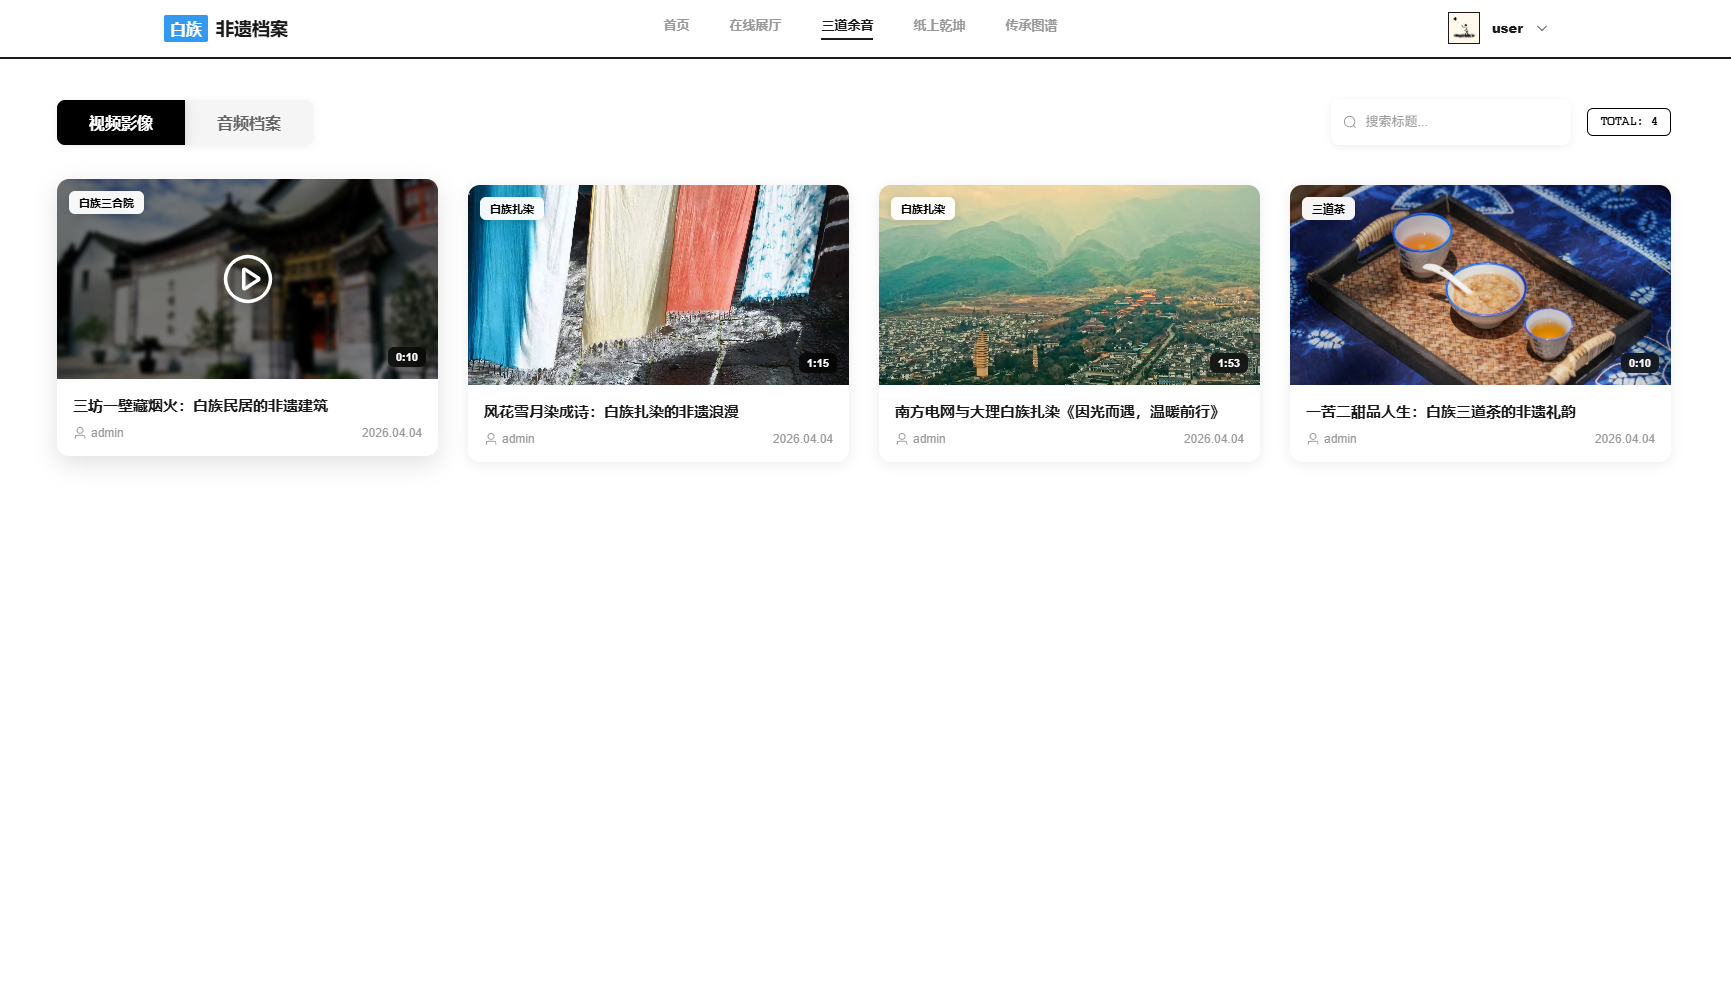
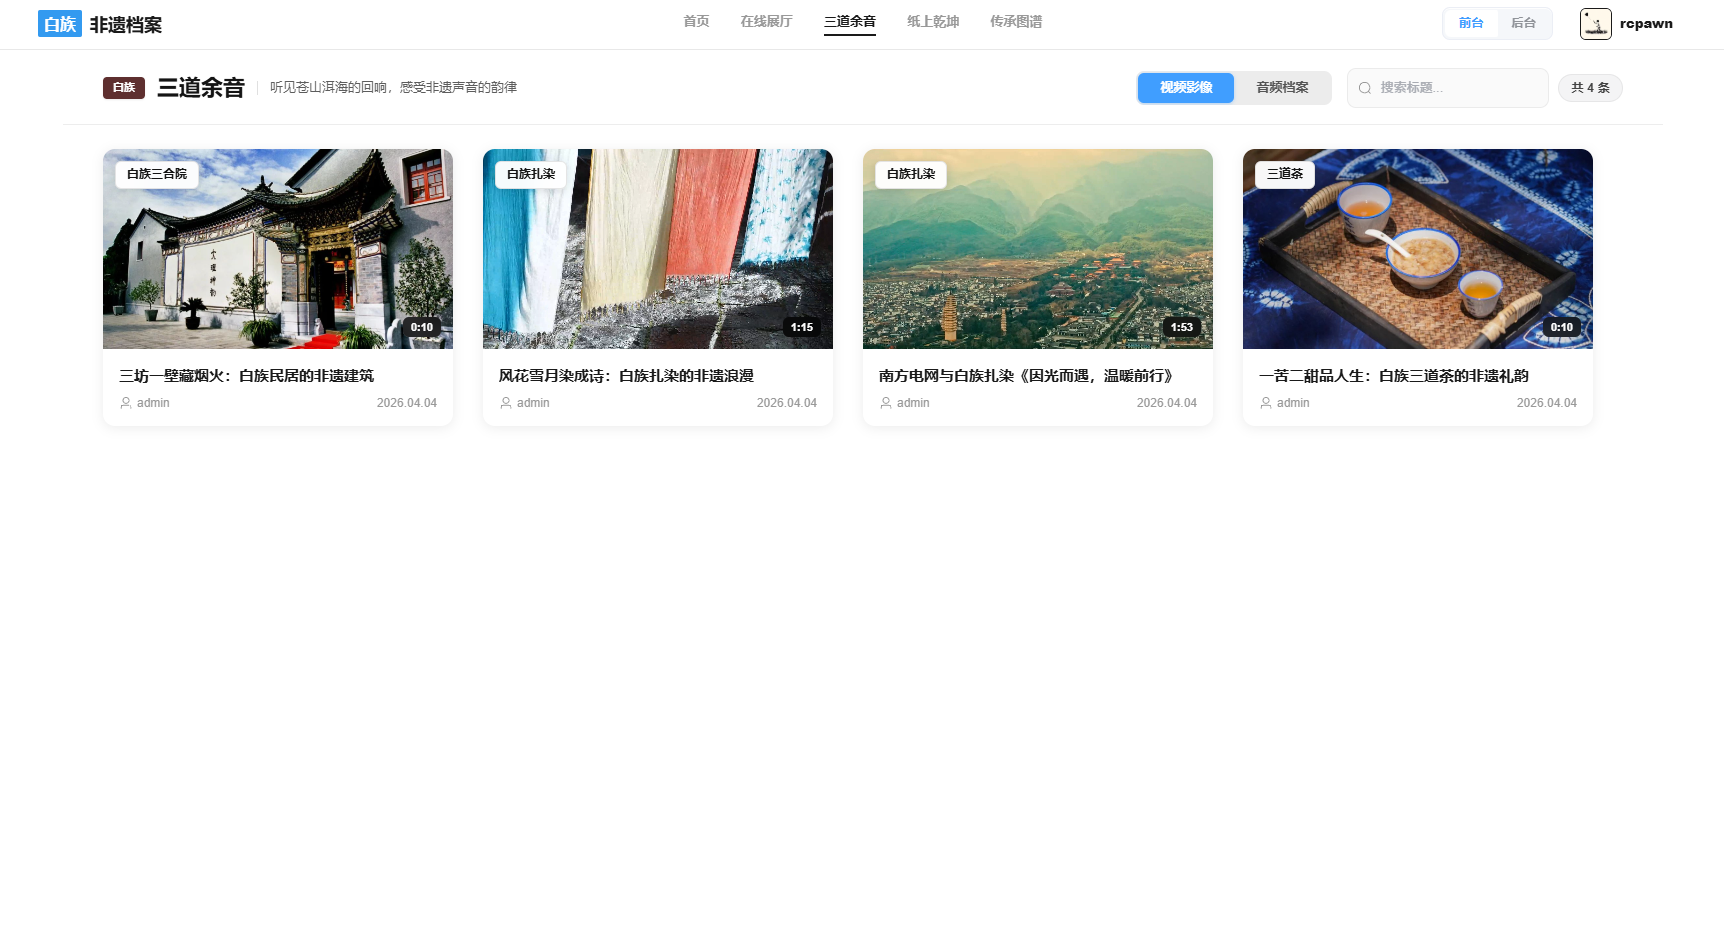
非遗展品接口区分前台与后台列表权限并限制未上架交互；门户布局与展品管理前端调整；更新 README 配图

diff --git a/ruoyi-ui/src/layout/PortalLayout.vue b/ruoyi-ui/src/layout/PortalLayout.vue
@@ -124,17 +124,20 @@ $ink-black: #1A1A1A;
     max-width: min(1680px, 100%);
     margin: 0 auto;
     height: 100%;
-    display: flex;
+    /* 左右各 1fr、中间 auto：主导航相对整条顶栏几何居中；避免右侧「前台/后台」+ 用户区变宽时导航被挤向左侧 */
+    display: grid;
+    grid-template-columns: minmax(0, 1fr) auto minmax(0, 1fr);
     align-items: center;
-    justify-content: space-between;
     gap: 12px;
   }
 }
 
-/* 中间导航独占可伸缩区并居中，避免右侧切换/登录区挤压链接文字 */
+/* 中间导航在 grid 第二列，相对视口居中，不受左右栏宽度差影响 */
 .header-center {
-  flex: 1 1 auto;
+  grid-column: 2;
+  justify-self: center;
   min-width: 0;
+  max-width: 100%;
   display: flex;
   align-items: center;
   justify-content: center;
@@ -142,6 +145,8 @@ $ink-black: #1A1A1A;
 }
 
 .logo-box {
+  grid-column: 1;
+  justify-self: start;
   flex-shrink: 0;
   cursor: pointer;
   display: flex; align-items: center; gap: 8px;
@@ -187,6 +192,19 @@ $ink-black: #1A1A1A;
   }
 }
 
+.user-actions {
+  grid-column: 3;
+  justify-self: end;
+  display: flex;
+  align-items: center;
+  gap: 10px;
+  flex-shrink: 0;
+}
+
+.user-actions__switcher {
+  margin-right: 2px;
+}
+
 @media screen and (max-width: 1180px) {
   .portal-header {
     height: auto;
@@ -195,19 +213,24 @@ $ink-black: #1A1A1A;
     padding-bottom: 8px;
   }
   .header-inner {
-    flex-wrap: wrap;
-    justify-content: flex-start;
+    grid-template-columns: 1fr auto;
+    grid-template-rows: auto auto;
+    row-gap: 8px;
   }
   .logo-box {
-    order: 1;
+    grid-column: 1;
+    grid-row: 1;
   }
   .user-actions {
-    order: 2;
-    margin-left: auto;
+    grid-column: 2;
+    grid-row: 1;
+    justify-self: end;
   }
   .header-center {
-    order: 3;
-    flex-basis: 100%;
+    grid-column: 1 / -1;
+    grid-row: 2;
+    width: 100%;
+    justify-self: stretch;
     justify-content: center;
     padding-top: 4px;
   }
@@ -233,18 +256,6 @@ $ink-black: #1A1A1A;
     flex-shrink: 0;
   }
   .user-name { font-size: 13px; font-weight: 900; color: $ink-black; }
-}
-
-.user-actions {
-  display: flex;
-  align-items: center;
-  gap: 10px;
-  flex-shrink: 0;
-  margin-left: auto;
-}
-
-.user-actions__switcher {
-  margin-right: 2px;
 }
 
 /* 主内容区：占满顶栏以下剩余高度（flex 子项），具体 min-height 由各子页自理 */

diff --git a/ruoyi-ui/src/views/heritage/inheritor/map.vue b/ruoyi-ui/src/views/heritage/inheritor/map.vue
@@ -1,5 +1,5 @@
 <template>
-  <div class="genealogy-container" v-loading="loading" element-loading-background="rgba(242, 240, 235, 1)">
+  <div class="genealogy-container" v-loading="loading" element-loading-background="#ffffff">
     <div class="paper-bg"></div>
     <div class="vignette-overlay"></div>
 
@@ -596,7 +596,7 @@ $accent: #FFD700;
     padding: 0 clamp(16px, 3vw, 40px);
     font-weight: 900;
     font-size: 12px;
-    background: #fafafa;
+    background: $bg-color;
     border-bottom: 1px solid #eee;
 
     .nav-left {
@@ -665,7 +665,7 @@ $accent: #FFD700;
     min-height: 0;
     position: relative;
     overflow: hidden;
-    background: radial-gradient(circle at 50% 35%, #fff 0%, #f3f2ef 100%);
+    background: $bg-color;
   }
 
   .graph-empty-hint {
@@ -722,7 +722,7 @@ $accent: #FFD700;
     box-sizing: border-box;
     padding: clamp(16px, 2vh, 24px);
     border-left: 1px solid #eceae4;
-    background: linear-gradient(180deg, #fdfcfa 0%, #faf8f4 100%);
+    background: $bg-color;
     overflow-y: auto;
     -webkit-overflow-scrolling: touch;
 

diff --git a/ruoyi-ui/src/views/heritage/heritage_manage/index.vue b/ruoyi-ui/src/views/heritage/heritage_manage/index.vue
@@ -171,7 +171,7 @@ const title = ref("");
 
 const data = reactive({
   form: {},
-  queryParams: { pageNum: 1, pageSize: 10, itemName: null, categoryId: null, status: null },
+  queryParams: { pageNum: 1, pageSize: 10, itemName: null, categoryId: null, status: null, heritageAdminList: true },
   rules: {
     itemName: [{ required: true, message: "展品名称不能为空", trigger: "blur" }],
     categoryId: [{ required: true, message: "分类不能为空", trigger: "change" }]
@@ -219,7 +219,7 @@ function handleSelectionChange(selection) {
 function handleAdd() { reset(); open.value = true; title.value = "添加非遗展品"; }
 function handleUpdate(row) {
   reset();
-  getHeritage_manage(row.itemId || ids.value).then(res => {
+  getHeritage_manage(row.itemId || ids.value, { heritageAdminQuery: true }).then(res => {
     form.value = res.data;
     open.value = true;
     title.value = "修改非遗展品";

diff --git a/ruoyi-ui/src/api/heritage/heritage_manage.js b/ruoyi-ui/src/api/heritage/heritage_manage.js
@@ -18,11 +18,12 @@ export function listHeritage_manage(query) {
     })
 }
 
-// 查询非遗展品详细
-export function getHeritage_manage(itemId) {
+// 查询非遗展品详细（后台传 { heritageAdminQuery: true } 可查看待审核等全状态）
+export function getHeritage_manage(itemId, params = {}) {
     return request({
         url: '/heritage/heritage_manage/' + itemId,
-        method: 'get'
+        method: 'get',
+        params
     })
 }
 

diff --git a/ruoyi-ui/src/views/heritage/heritage_manage/audit.vue b/ruoyi-ui/src/views/heritage/heritage_manage/audit.vue
@@ -205,7 +205,8 @@ const headerLineTooltip = computed(() => {
 const queryParams = reactive({
   pageNum: 1,
   pageSize: 10,
-  status: 1 // 【核心】写死只查询待审核数据
+  status: 1, // 【核心】写死只查询待审核数据
+  heritageAdminList: true
 });
 
 const auditForm = reactive({

diff --git a/ruoyi-admin/src/main/java/com/ruoyi/heritage/controller/HeritageItemController.java b/ruoyi-admin/src/main/java/com/ruoyi/heritage/controller/HeritageItemController.java
@@ -1,12 +1,15 @@
 package com.ruoyi.heritage.controller;
 
+import java.util.Collection;
 import java.util.List;
 import javax.servlet.http.HttpServletResponse;
 
 import com.ruoyi.common.annotation.Anonymous;
+import com.ruoyi.common.core.domain.model.LoginUser;
 import com.ruoyi.common.utils.DateUtils;
 import com.ruoyi.common.utils.SecurityUtils;
 import org.springframework.security.access.prepost.PreAuthorize;
+import org.springframework.security.core.Authentication;
 import org.springframework.beans.factory.annotation.Autowired;
 import org.springframework.web.bind.annotation.GetMapping;
 import org.springframework.web.bind.annotation.PostMapping;
@@ -14,6 +17,7 @@ import org.springframework.web.bind.annotation.PutMapping;
 import org.springframework.web.bind.annotation.DeleteMapping;
 import org.springframework.web.bind.annotation.PathVariable;
 import org.springframework.web.bind.annotation.RequestBody;
+import org.springframework.web.bind.annotation.RequestParam;
 import org.springframework.web.bind.annotation.RequestMapping;
 import org.springframework.web.bind.annotation.RestController;
 import com.ruoyi.common.annotation.Log;
@@ -36,6 +40,38 @@ import com.ruoyi.common.core.page.TableDataInfo;
 public class HeritageItemController extends BaseController {
     @Autowired
     private IHeritageItemService heritageItemService;
+
+    /** 已上架（审核通过）状态，与字典 heritage_audit_status 一致：0 正常 */
+    private static final int STATUS_PUBLISHED = 0;
+
+    /**
+     * 后台管理：具备列表/审核/详情权限且请求显式携带 heritageAdminList / heritageAdminQuery 时，才可按任意审核状态查询。
+     */
+    private boolean canQueryAllHeritageStatuses() {
+        Authentication auth = SecurityUtils.getAuthentication();
+        if (auth == null || !auth.isAuthenticated() || !(auth.getPrincipal() instanceof LoginUser)) {
+            return false;
+        }
+        Collection<String> permissions = ((LoginUser) auth.getPrincipal()).getPermissions();
+        return SecurityUtils.hasPermi(permissions, "heritage:heritage_manage:list")
+            || SecurityUtils.hasPermi(permissions, "heritage:heritage_manage:audit")
+            || SecurityUtils.hasPermi(permissions, "heritage:heritage_manage:query");
+    }
+
+    private boolean isHeritageItemPubliclyVisible(HeritageItem item) {
+        return item != null && Integer.valueOf(STATUS_PUBLISHED).equals(item.getStatus());
+    }
+
+    private boolean isCurrentUserItemOwner(HeritageItem item) {
+        if (item == null || item.getCreateBy() == null) {
+            return false;
+        }
+        try {
+            return item.getCreateBy().equals(SecurityUtils.getUsername());
+        } catch (Exception e) {
+            return false;
+        }
+    }
 
     /**
      * 展品审核 (管理员专用)
@@ -64,6 +100,14 @@ public class HeritageItemController extends BaseController {
     @Anonymous
     @PostMapping("/count/{type}/{itemId}")
     public AjaxResult handleHeritageAction(@PathVariable("type") Integer type, @PathVariable("itemId") Long itemId) {
+        HeritageItem target = heritageItemService.selectHeritageItemByItemId(itemId);
+        if (target == null || target.getDelFlag() == null || !"0".equals(target.getDelFlag())) {
+            return error("展品不存在");
+        }
+        if (!isHeritageItemPubliclyVisible(target)) {
+            return error("该展品暂未开放浏览");
+        }
+
         // 1. 浏览量逻辑：无需判断用户，直接自增
         if (type == 1) {
             return toAjax(heritageItemService.addViewCount(itemId));
@@ -86,7 +130,12 @@ public class HeritageItemController extends BaseController {
 //    @PreAuthorize("@ss.hasPermi('heritage:heritage_manage:list')")
     @Anonymous
     @GetMapping("/list")
-    public TableDataInfo list(HeritageItem heritageItem) {
+    public TableDataInfo list(
+            HeritageItem heritageItem,
+            @RequestParam(value = "heritageAdminList", required = false, defaultValue = "false") boolean heritageAdminList) {
+        if (!(heritageAdminList && canQueryAllHeritageStatuses())) {
+            heritageItem.setStatus(STATUS_PUBLISHED);
+        }
         startPage();
         List<HeritageItem> list = heritageItemService.selectHeritageItemList(heritageItem);
         return getDataTable(list);
@@ -110,8 +159,21 @@ public class HeritageItemController extends BaseController {
 //    @PreAuthorize("@ss.hasPermi('heritage:heritage_manage:query')")
     @Anonymous
     @GetMapping(value = "/{itemId}")
-    public AjaxResult getInfo(@PathVariable("itemId") Long itemId) {
-        return success(heritageItemService.selectHeritageItemByItemId(itemId));
+    public AjaxResult getInfo(
+            @PathVariable("itemId") Long itemId,
+            @RequestParam(value = "heritageAdminQuery", required = false, defaultValue = "false") boolean heritageAdminQuery) {
+        HeritageItem item = heritageItemService.selectHeritageItemByItemId(itemId);
+        if (item == null) {
+            return error("展品不存在或已删除");
+        }
+        if (item.getDelFlag() != null && !"0".equals(item.getDelFlag())) {
+            return error("展品不存在或已删除");
+        }
+        if (isHeritageItemPubliclyVisible(item) || isCurrentUserItemOwner(item)
+                || (heritageAdminQuery && canQueryAllHeritageStatuses())) {
+            return success(item);
+        }
+        return error("展品不存在或暂未公开");
     }
 
     /**

diff --git a/ruoyi-admin/src/main/java/com/ruoyi/heritage/mapper/HeritageItemMapper.java b/ruoyi-admin/src/main/java/com/ruoyi/heritage/mapper/HeritageItemMapper.java
@@ -18,7 +18,7 @@ public interface HeritageItemMapper {
     /** 查询展品详情 */
     HeritageItem selectHeritageItemByItemId(Long itemId);
 
-    /** 查询展品列表 (全量/管理员/展厅) */
+    /** 查询展品列表（后台可传 status；门户由 Controller 强制 status=0） */
     List<HeritageItem> selectHeritageItemList(HeritageItem heritageItem);
 
     /** 查询个人发布的展品列表 (UGC 隔离) */
@@ -80,7 +80,7 @@ public interface HeritageItemMapper {
     Long sumViewCount();
 
     /**
-     * 未逻辑删除的展品总条数（与无筛选的 {@link #selectHeritageItemList} 在参数为 null 时一致）
+     * 已上架（status=0）且未逻辑删除的展品条数，用于驾驶舱「展品总数」等公开统计
      */
     Long countValidHeritageItems();
 
